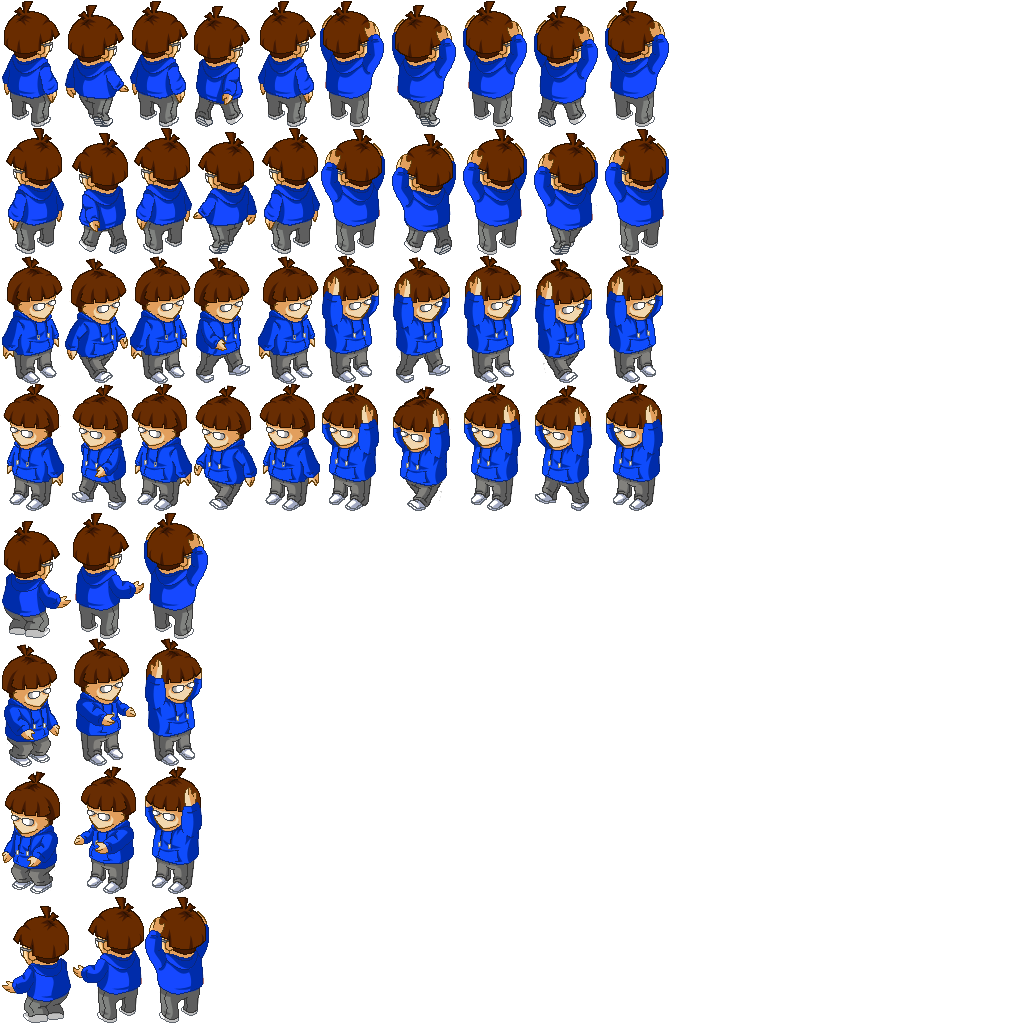
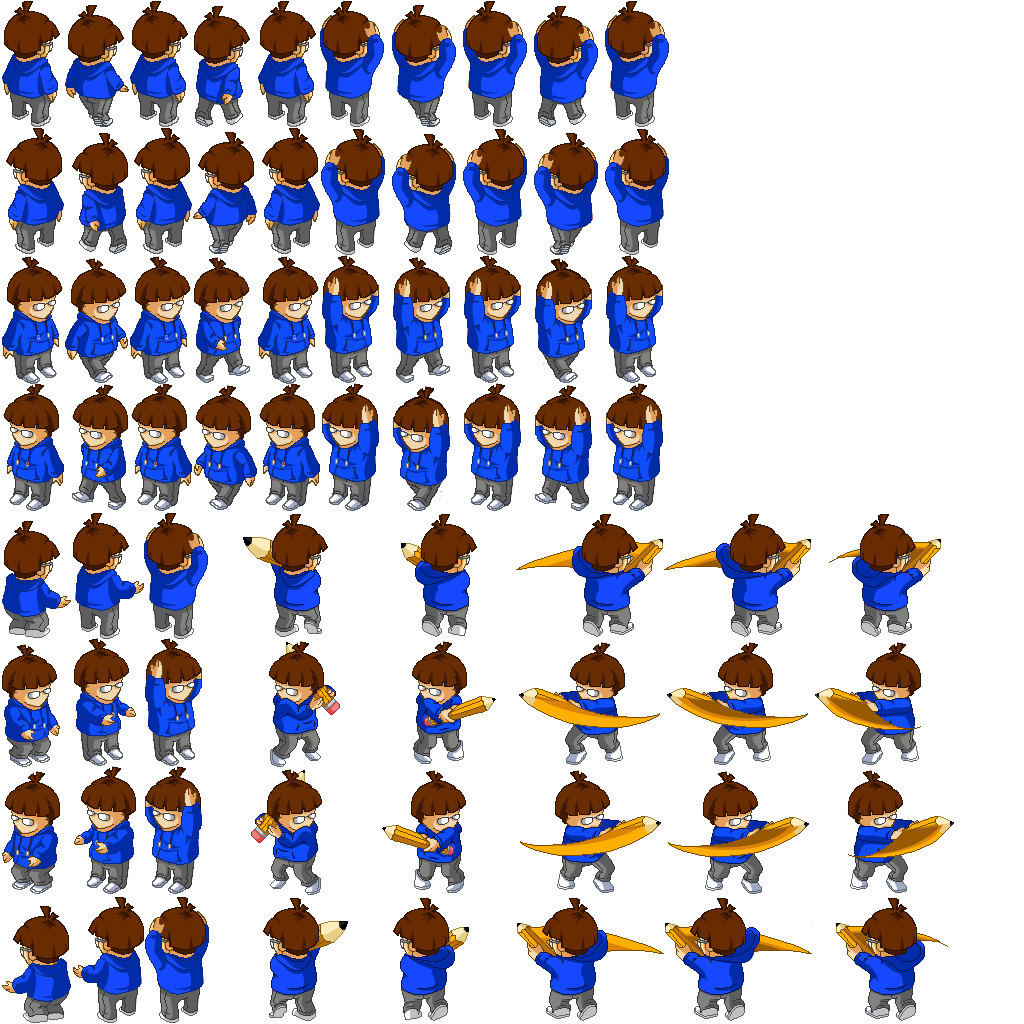
Changes I made
I changed the Robert_walk png, added an updated dialogue box for the
boxes (though I can't figure out how to use them properly), and modified
the Player Controller, View, and Model files.

Changed region(s): [[0.375, 0.5, 0.9375, 1.0], [0.25, 0.5, 0.3438, 1.0]]

diff --git a/QuantumChaos/src/com/theboxbrigade/quantumchaos/general/AnimatedAssets.java b/QuantumChaos/src/com/theboxbrigade/quantumchaos/general/AnimatedAssets.java
@@ -10,12 +10,17 @@ public class AnimatedAssets {
 	private static final int FRAME_HEIGHT = 128;
 	private static final int PICKUP_Y_OFF = 512;
 	private static final int CARRY_X_OFF = 320;
+	private static final int ATTACK_Y_OFF = 513;
+	private static final int ATTACK_X_OFF = 220;
+	
 	public static int numWalkingFrames = 5;
 	public static int numPickUpFrames = 3;
+	public static int numAttackingFrames = 5;
 	private static final String robertPath = "data/images/robert_walk.png";
 	private static Sprite[] robertWalkNorthFrames, robertWalkEastFrames, robertWalkSouthFrames, robertWalkWestFrames;
 	private static Sprite[] pickUpNorthFrames, pickUpEastFrames, pickUpSouthFrames, pickUpWestFrames;
 	private static Sprite[] carryNorthFrames, carryEastFrames, carrySouthFrames, carryWestFrames;
+	private static Sprite[] attackNorthFrames, attackEastFrames, attackSouthFrames, attackWestFrames;
 	public static int robertCurrentFrameNum = -1;
 	public static Sprite robertCurrentFrame;
 
@@ -32,6 +37,10 @@ public class AnimatedAssets {
 		carryEastFrames = new Sprite[numWalkingFrames];
 		carrySouthFrames = new Sprite[numWalkingFrames];
 		carryWestFrames = new Sprite[numWalkingFrames];
+		attackNorthFrames = new Sprite[numAttackingFrames];
+		attackEastFrames = new Sprite[numAttackingFrames];
+		attackSouthFrames = new Sprite[numAttackingFrames];
+		attackWestFrames = new Sprite[numAttackingFrames];
 		for (int i = 0; i < numWalkingFrames; i++) {
 			robertWalkNorthFrames[i] = load(robertPath, i*FRAME_WIDTH, 0, FRAME_WIDTH, FRAME_HEIGHT, false);
 			robertWalkWestFrames[i] = load(robertPath, i*FRAME_WIDTH, FRAME_HEIGHT, FRAME_WIDTH, FRAME_HEIGHT, false);
@@ -47,6 +56,12 @@ public class AnimatedAssets {
 			pickUpEastFrames[i] = load(robertPath, i*71, PICKUP_Y_OFF + FRAME_HEIGHT, 71, FRAME_HEIGHT, false);
 			pickUpSouthFrames[i] = load(robertPath, i*71, PICKUP_Y_OFF + 2*FRAME_HEIGHT, 71, FRAME_HEIGHT, false);
 			pickUpWestFrames[i] = load(robertPath, i*71, PICKUP_Y_OFF + 3*FRAME_HEIGHT, 71, FRAME_HEIGHT, false);
+		}
+		for(int i = 0; i < numAttackingFrames; i++){
+			attackNorthFrames[i] = load(robertPath, ATTACK_X_OFF + i*148, ATTACK_Y_OFF, 148, FRAME_HEIGHT, false);
+			attackSouthFrames[i] =  load(robertPath, ATTACK_X_OFF + i*148, ATTACK_Y_OFF + FRAME_HEIGHT, 148, FRAME_HEIGHT, false);
+			attackEastFrames[i] = load(robertPath, ATTACK_X_OFF + i*148, ATTACK_Y_OFF + 2*FRAME_HEIGHT, 148, FRAME_HEIGHT, false);
+			attackWestFrames[i] =  load(robertPath, ATTACK_X_OFF + i*148, ATTACK_Y_OFF + 3*FRAME_HEIGHT, 148, FRAME_HEIGHT, false);
 		}
 		robertCurrentFrameNum = 0;
 		robertCurrentFrame = robertWalkNorthFrames[robertCurrentFrameNum];
@@ -110,6 +125,17 @@ public class AnimatedAssets {
 											return carrySouthFrames[frame];
 				case Globals.WEST:			frame %= numWalkingFrames;
 											return carryWestFrames[frame];
+			}
+		} else if(state == PlayerController.ATTACKING){
+			switch (facing) {
+				case Globals.NORTH: 		frame %= numAttackingFrames;	
+											return attackNorthFrames[frame];
+				case Globals.EAST:			frame %= numAttackingFrames;
+											return attackEastFrames[frame];
+				case Globals.SOUTH:			frame %= numAttackingFrames;
+											return attackSouthFrames[frame];
+				case Globals.WEST:			frame %= numAttackingFrames;
+											return attackWestFrames[frame];
 			}
 		}
 		return robertCurrentFrame;

diff --git a/QuantumChaos/src/com/theboxbrigade/quantumchaos/views/PlayerView.java b/QuantumChaos/src/com/theboxbrigade/quantumchaos/views/PlayerView.java
@@ -34,6 +34,8 @@ public class PlayerView extends CharacterView {
 												break;
 			case PlayerController.INIT_CARRYING:player = AnimatedAssets.getFrame(state, facingDir, stateFrame);
 												break;
+			case PlayerController.ATTACKING:	player = AnimatedAssets.getFrame(state, facingDir, stateFrame);
+												break;
 			default:							player = AnimatedAssets.getFrame(state, stateFrame);
 												break;
 		}
@@ -57,6 +59,8 @@ public class PlayerView extends CharacterView {
 			case PlayerController.SLIDING:		player = AnimatedAssets.getFrame(facingDir, 0);
 												break;
 			case PlayerController.INIT_CARRYING:player = AnimatedAssets.getFrame(state, facingDir, stateFrame);
+												break;
+			case PlayerController.ATTACKING: 	player = AnimatedAssets.getFrame(state, facingDir, stateFrame);
 												break;
 			default:							player = AnimatedAssets.getFrame(state, stateFrame);
 												break;

diff --git a/QuantumChaos/src/com/theboxbrigade/quantumchaos/controllers/PlayerController.java b/QuantumChaos/src/com/theboxbrigade/quantumchaos/controllers/PlayerController.java
@@ -104,8 +104,11 @@ public class PlayerController extends ObjectController implements Obstructing {
 										break;
 				case Input.INTERACT:	((PlayerModel)model).interactWith(interactingWith);
 										break;
+				case Input.ATTACK: 		((PlayerModel)model).attack();
+										break;
 			}
 		}
+		System.out.println("Key pressed: " + keyPressed);
 		System.out.println("State: " + state);
 		System.out.println(position);
 	}
@@ -132,6 +135,10 @@ public class PlayerController extends ObjectController implements Obstructing {
 			resetState();
 		}
 		if (state == INIT_CARRYING && stateFrame >= AnimatedAssets.numPickUpFrames) {
+			state = IDLE;
+			resetState();
+		}
+		if (state == ATTACKING && stateFrame >= AnimatedAssets.numAttackingFrames) {
 			state = IDLE;
 			resetState();
 		}

diff --git a/QuantumChaos/src/com/theboxbrigade/quantumchaos/models/PlayerModel.java b/QuantumChaos/src/com/theboxbrigade/quantumchaos/models/PlayerModel.java
@@ -89,6 +89,9 @@ public class PlayerModel extends CharacterModel {
 		if (interactable.interactableType() == Interactable.JOURNAL_PAGE) {
 			((PlayerController)controller).blockInput = true;
 		}
+		if(interactable.interactableType() == Interactable.N2_CHUNK){
+			state = PlayerController.ATTACKING; 
+		}
 		interactable.whenInteractedWith();
 		sync();
 	}
@@ -106,6 +109,7 @@ public class PlayerModel extends CharacterModel {
 	public void attack() {
 		oldState = state;
 		state = PlayerController.ATTACKING;
+		System.out.println("ATTACK!");
 	}
 	
 	public void hit() {

diff --git a/QuantumChaos/src/com/theboxbrigade/quantumchaos/general/Assets.java b/QuantumChaos/src/com/theboxbrigade/quantumchaos/general/Assets.java
@@ -97,7 +97,7 @@ public class Assets {
 		dialogSchrodinger = load("data/images/dialogueBox_Schrodinger.png", 0, 0, 1024, 256, false);
 		dialogDave = load("data/images/dialogueBox_Dave Small.png", 0, 0, 1024, 256, false);
 		dialogCat = load("data/images/dialogueBox_Cat.png", 0, 0, 1024, 256, false);
-		dialogBoxBG = load("data/images/dialog_bg.png", 0, 0, 1024, 256, false);
+		dialogBoxBG = load("data/images/dialogBoxBG.png", 0, 0, 1024, 256, false);
 		pauseBG = load("data/images/pause_bg.png", 0, 0, 1024, 768, false);
 		
 		// SOUND FX
